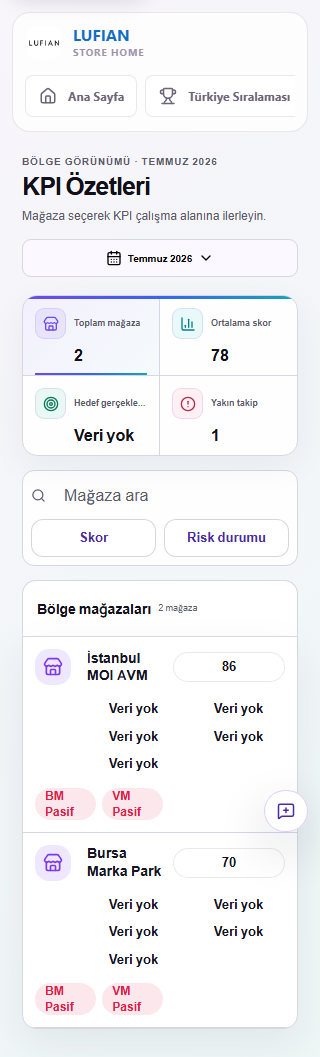
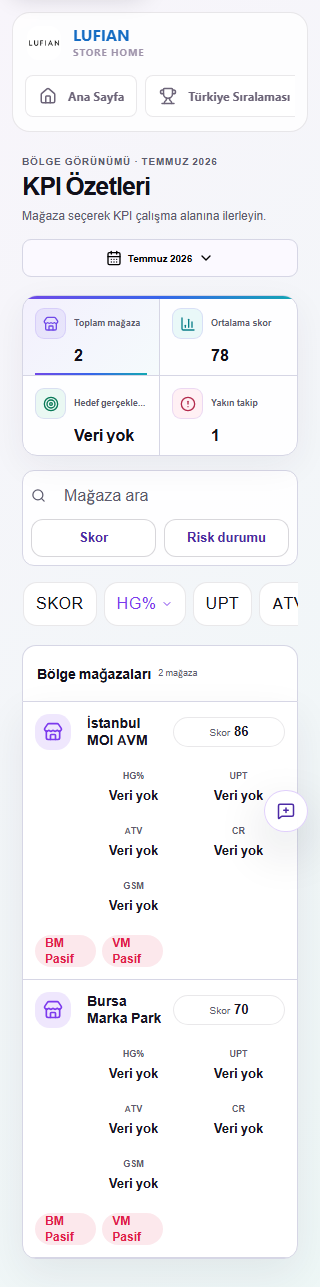
fix: preserve mobile KPI command controls

diff --git a/admin-web/src/pages/store-kpis-region-overview.tsx b/admin-web/src/pages/store-kpis-region-overview.tsx
@@ -50,6 +50,7 @@ export function StoreKpisRegionOverview({ model }: { model: StoreKpiHighlightsPa
   const riskCount = model.regionOverviewRows.filter(
     (row) => typeof row.scoreValue === 'number' && row.scoreValue < 75,
   ).length
+  const isPageScoped = regionTotal > model.regionOverviewRows.length
   const visibleRows = useMemo(
     () =>
       model.regionOverviewRows.filter((row) => {
@@ -107,9 +108,9 @@ export function StoreKpisRegionOverview({ model }: { model: StoreKpiHighlightsPa
           onClick={() => { setRail('target'); setRiskOnly(false); model.setRegionOverviewSort('TARGET_ACHIEVEMENT') }}
         />
         <CommandCanvasMetricFilter
-          label="Yakın takip"
+          label={isPageScoped ? 'Bu sayfada takip' : 'Yakın takip'}
           value={String(riskCount)}
-          note="Mağaza skoru <75"
+          note={isPageScoped ? 'Yüklü mağazalarda skor <75' : 'Mağaza skoru <75'}
           icon={<AlertCircle size={16} />}
           tone="rose"
           active={rail === 'risk'}
@@ -120,12 +121,23 @@ export function StoreKpisRegionOverview({ model }: { model: StoreKpiHighlightsPa
       <CommandCanvasFilterBar
         updatingLabel="KPI görünümü güncelleniyor"
         isUpdating={model.regionOverviewQuery.isFetching}
-        search={<label className="kpi-command-search"><Search aria-hidden="true" size={15} /><Input aria-label="Mağaza ara" placeholder="Mağaza ara" value={query} onChange={(event) => setQuery(event.target.value)} /></label>}
+        search={<label className="kpi-command-search"><Search aria-hidden="true" size={15} /><Input aria-label={isPageScoped ? 'Bu sayfada mağaza ara' : 'Mağaza ara'} placeholder={isPageScoped ? 'Bu sayfada mağaza ara' : 'Mağaza ara'} value={query} onChange={(event) => setQuery(event.target.value)} /></label>}
         controls={<>
           <Button variant="outline" onClick={() => model.setRegionOverviewSort('score')}>Skor</Button>
           <Button variant={riskOnly ? 'secondary' : 'outline'} onClick={() => { setRiskOnly((value) => !value); setRail(riskOnly ? 'stores' : 'risk') }}>Risk durumu</Button>
         </>}
       />
+
+      <div className="kpi-command-mobile-sort" aria-label="KPI sıralama seçenekleri">
+        <RegionSortButton label={model.t('storeKpis.regionScoreColumn')} model={model} sortKey="score" touch />
+        <RegionSortButton label="HG%" model={model} sortKey="TARGET_ACHIEVEMENT" touch />
+        <RegionSortButton label="UPT" model={model} sortKey="UPT" touch />
+        <RegionSortButton label="ATV" model={model} sortKey="ATV" touch />
+        <RegionSortButton label="CR" model={model} sortKey="CR" touch />
+        <RegionSortButton label="GSM Onayı" model={model} sortKey="gsm_approval" touch />
+        <RegionSortButton label="BM" model={model} sortKey="BM_CHECKLIST" touch />
+        <RegionSortButton label="VM" model={model} sortKey="VM_CHECKLIST" touch />
+      </div>
 
       <div className="kpi-command-list-title">
         <h2>{model.t('storeKpis.regionStoresTitle')}</h2>
@@ -147,7 +159,7 @@ export function StoreKpisRegionOverview({ model }: { model: StoreKpiHighlightsPa
         </div>}
         footer={regionHasPrevious || regionHasNext ? <KpiPager model={model} regionHasPrevious={regionHasPrevious} regionHasNext={regionHasNext} regionTotal={regionTotal} /> : undefined}
       >
-        {visibleRows.length === 0 ? <StoreEmptyState title="Sonuç bulunamadı" description="Filtreleri değiştirerek tekrar deneyin." titleAsHeading /> : <>
+        {visibleRows.length === 0 ? <StoreEmptyState title="Sonuç bulunamadı" description={isPageScoped ? 'Bu sayfadaki filtreleri değiştirin veya diğer mağaza sayfasına geçin.' : 'Filtreleri değiştirerek tekrar deneyin.'} titleAsHeading /> : <>
           <div className="kpi-command-desktop-rows">
             {visibleRows.map((row) => <RegionStoreRow key={row.storeId} model={model} row={row} />)}
           </div>
@@ -288,13 +300,19 @@ function RegionStoreMobileCard({ model, row }: { model: StoreKpiHighlightsPageMo
         {storeName}
       </strong>
       <span className="tw:inline-flex tw:min-h-[30px] tw:min-w-[112px] tw:items-center tw:justify-center tw:rounded-full tw:bg-white tw:px-3 tw:text-[13px] tw:font-semibold tw:text-[var(--store-command-ink)] tw:shadow-[inset_0_0_0_1px_var(--store-command-line)]">
+        <span className="tw:mr-1 tw:text-[10px] tw:font-medium tw:text-muted-foreground">Skor</span>
         {formatNumber(model.locale, row.scoreValue, noData, 1)}
       </span>
       <div className="tw:col-start-2 tw:col-end-4 tw:grid tw:grid-cols-2 tw:gap-x-3 tw:gap-y-2 tw:pt-1 tw:text-center">
         {regionMetricCodes.map((code) => (
-          <strong key={code} className="tw:text-[13px] tw:font-semibold tw:text-[var(--store-command-ink)]">
-            {formatRegionMetric(model.locale, noData, getMetricByCode(row.metrics, code), code)}
-          </strong>
+          <span key={code} className="tw:grid tw:min-w-0 tw:gap-0.5 tw:rounded-lg tw:bg-white/70 tw:px-2 tw:py-1.5">
+            <small className="tw:text-[9px] tw:font-semibold tw:text-muted-foreground">
+              {getMobileMetricLabel(code)}
+            </small>
+            <strong className="tw:text-[13px] tw:font-semibold tw:text-[var(--store-command-ink)]">
+              {formatRegionMetric(model.locale, noData, getMetricByCode(row.metrics, code), code)}
+            </strong>
+          </span>
         ))}
       </div>
       <div className="tw:col-span-2 tw:col-start-1 tw:flex tw:gap-1.5 tw:pt-1">
@@ -303,6 +321,12 @@ function RegionStoreMobileCard({ model, row }: { model: StoreKpiHighlightsPageMo
       </div>
     </Link>
   )
+}
+
+function getMobileMetricLabel(code: (typeof regionMetricCodes)[number]) {
+  if (code === 'TARGET_ACHIEVEMENT') return 'HG%'
+  if (code === 'gsm_approval') return 'GSM'
+  return code
 }
 
 function MetricMini(input: {

diff --git a/admin-web/src/pages/store-kpis-region-command-canvas.css b/admin-web/src/pages/store-kpis-region-command-canvas.css
@@ -97,6 +97,10 @@
   display: none;
 }
 
+.kpi-command-mobile-sort {
+  display: none;
+}
+
 .kpi-command-mobile-row {
   display: grid;
   grid-template-columns: 42px minmax(0, 1fr) minmax(88px, auto);
@@ -130,6 +134,14 @@
   .kpi-command-list .command-canvas-list-header,
   .kpi-command-desktop-rows {
     display: none;
+  }
+
+  .kpi-command-mobile-sort {
+    display: flex;
+    gap: 7px;
+    overflow-x: auto;
+    padding: 2px 1px 5px;
+    scrollbar-width: thin;
   }
 
   .kpi-command-mobile-rows {

diff --git a/docs/evidence/store-command-canvas-parity/kpis/README.md b/docs/evidence/store-command-canvas-parity/kpis/README.md
@@ -8,7 +8,9 @@ data in production.
 `admin-web/e2e/store-kpis-contracts.spec.ts` proves the visual frame,
 company-to-region-to-store drill, local decision rails, sorting, monthly
 period continuity, Profile Git navigation, partial/error truth, accessibility,
-mobile input sizing and overflow safety.
+mobile input sizing and overflow safety. Mobile cards retain visible HG, UPT,
+ATV, CR and GSM labels plus a horizontally reachable sort rail; bounded
+multi-page results explicitly label page-local search/risk behavior.
 
 It also measures all four decision-rail cells before and after every metric
 selection and rejects any width or height delta at a fixed viewport.

diff --git a/docs/evidence/store-operational-surfaces-command-canvas/parity-gap-audit-2026-07-17.md b/docs/evidence/store-operational-surfaces-command-canvas/parity-gap-audit-2026-07-17.md
@@ -145,6 +145,8 @@ The geometry assertions now run in:
 Local proof completed:
 
 - KPI visual contract: `4/4` passed;
+- complete KPI contract, including mobile sorting and bounded paging: `24/24`
+  passed;
 - Talep Merkezi parity: `5/5` passed;
 - Norm Kadro and Görevler parity: `20/20` passed;
 - frontend lint: passed;
